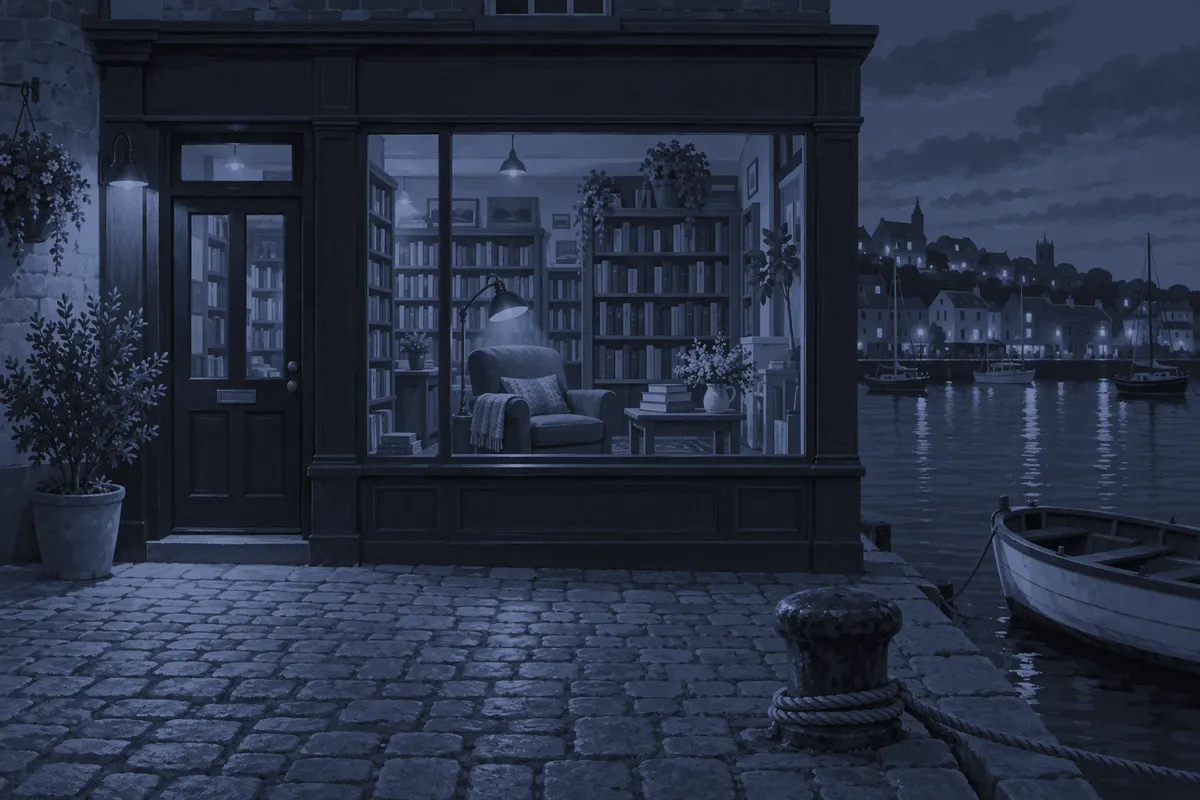
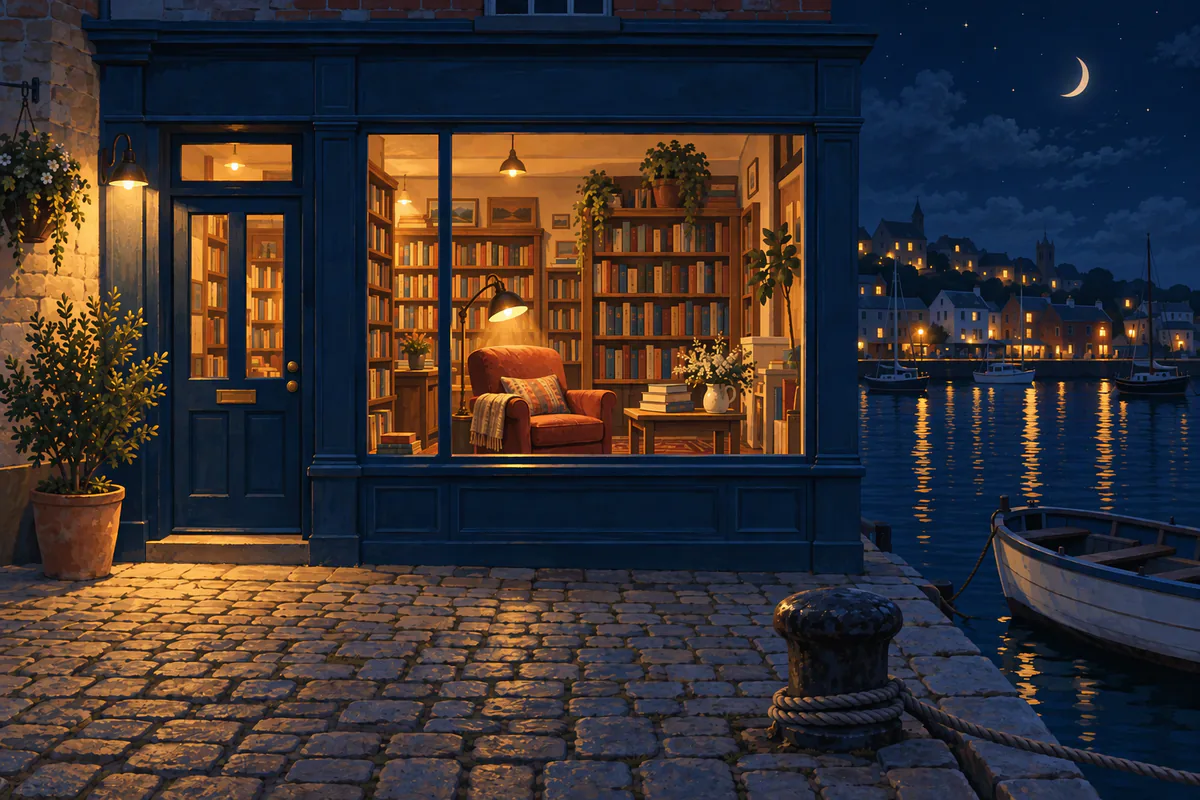
Q117 dark pictures are regenerated, never colour-corrected: Harbour shopfront night scene, AI dark-canvas seedling set, rules in image-prompting, images.md, guide, Rules agents miss and Pictures page

diff --git a/apps/library/src/data/pages.ts b/apps/library/src/data/pages.ts
@@ -1149,7 +1149,9 @@ applySettings({
           type: 'points',
           items: [
             'The look: in colour (the default), greyscale, duotone, or one look at rest and another while it’s pointed at or focused. One file does all of them.',
-            'The file: the picture as it is (the light file), and optionally the same picture drawn for a dark scheme and for more contrast. Each file is a separate picture you make.',
+            'The file: the picture as it is (the light file), and optionally the same picture made for a dark scheme and for more contrast. Each file is a separate picture you make.',
+            'A dark file is one of two kinds. Dark lighting: the same scene as it looks at night or in dim light, with the moon and stars instead of the sun, lit windows and lamps on. Dark canvas: the same drawing on a dark canvas, with the light still falling the same way, so shadows stay darker and highlights lighter.',
+            'Make a dark file with AI, from the light file, or use one you’re given. Never tint, filter, invert or colour-correct the light file: that turns day into blue day and swaps shadows for highlights.',
             'The look applies to whichever file is showing, so a dark file can be greyscale too.',
             'With more contrast, or with the system’s forced colours, every picture shows in full colour, whatever its look, so nothing is harder to make out.',
           ],
@@ -1174,8 +1176,8 @@ applySettings({
             { version: 'Greyscale', for: 'Quieting pictures so they sit with the page, or giving a set of different photos one look.', when: 'Always, except with more contrast.', code: 'treatment="greyscale"', json: '"treatment": "greyscale"' },
             { version: 'Duotone', for: 'Tying pictures to the brand: grey tinted with the accent colour.', when: 'Always, except with more contrast.', code: 'treatment="duotone"', json: '"treatment": "duotone"' },
             { version: 'Grey until pointed at', for: 'A grid of covers or people that stays calm and shows colour on the one you’re looking at.', when: 'Colour while the picture, or the link, button or card around it, is hovered or has focus.', code: 'treatment={{ rest: \'greyscale\', active: \'none\' }}', json: '"treatment": { "rest": "greyscale", "active": "none" }' },
-            { version: 'Dark file', for: 'A picture that would glare or disappear on a dark page: a night scene, a dimmed photo, an illustration redrawn for dark.', when: 'In a dark scheme: the page’s, a dark band’s own (data-scheme="dark"), or the system’s.', code: 'dark={night}', json: '"dark": "assets/name-dark.webp"' },
-            { version: 'More contrast files', for: 'A drawing whose lines or colours are too faint for people who asked for more contrast.', when: 'With more contrast: the page’s setting or the system’s. Dark with more contrast uses contrast.dark, then the dark file, then the light one.', code: 'contrast={{ light: …, dark: … }}', json: '"contrast": { "light": "assets/…", "dark": "assets/…" }' },
+            { version: 'Dark file', for: 'A picture that would glare or disappear on a dark page: the same scene at night, or the same drawing redrawn on a dark canvas.', when: 'In a dark scheme: the page’s, a dark band’s own (data-scheme="dark"), or the system’s.', code: 'dark={night}', json: '"dark": "assets/name-dark.webp"' },
+            { version: 'More contrast files', for: 'A drawing whose lines or colours are too faint for people who asked for more contrast: redrawn with stronger separation, never a filter.', when: 'With more contrast: the page’s setting or the system’s. Dark with more contrast uses contrast.dark, then the dark file, then the light one.', code: 'contrast={{ light: …, dark: … }}', json: '"contrast": { "light": "assets/…", "dark": "assets/…" }' },
             { version: 'Dark file in greyscale', for: 'A greyscale set that also has dark files: the look and the file combine.', when: 'In a dark scheme, in the look you set.', code: 'dark={night} treatment="greyscale"', json: '"dark": "assets/…", "treatment": "greyscale"' },
           ],
         },

diff --git a/packages/core/react/stories/Image.stories.tsx b/packages/core/react/stories/Image.stories.tsx
@@ -11,9 +11,9 @@ import { scenes } from './scenes';
 import type { StoryFile } from './story';
 import lighthouseDay from './media/scenes/lighthouse-day.webp?url';
 import lighthouseNight from './media/scenes/lighthouse-night.webp?url';
-import seedlingLight from './media/spot/seedling-light.svg?url';
-import seedlingDark from './media/spot/seedling-dark.svg?url';
-import seedlingDarkMore from './media/spot/seedling-dark-more.svg?url';
+import seedlingLight from './media/spot/seedling-light.webp?url';
+import seedlingDark from './media/spot/seedling-dark.webp?url';
+import seedlingDarkMore from './media/spot/seedling-dark-more.webp?url';
 
 const lighthouseAlt = 'A striped lighthouse on a green headland above the sea.';
 /** MP11: two reveals drawn with the one hook. A wipe from the start edge… */
@@ -170,7 +170,7 @@ export default {
     {
       title: 'Light and dark pictures',
       description:
-        'dark names the same picture for a dark scheme, and contrast its files for more contrast (MP17); src stays the light file. Each frame follows the scheme it is drawn in: the page’s, or a band’s own. A photo and an SVG alike, at one ratio under one alt. Only the file in use is fetched; a later switch keeps the old file until the new one has loaded, so nothing flashes or moves. Dark and more contrast falls back to contrast.dark, then dark, then src.',
+        'dark names the same picture for a dark scheme, and contrast its files for more contrast (MP17); src stays the light file. Each frame follows the scheme it is drawn in: the page’s, or a band’s own. A photo and an illustration alike, at one ratio under one alt; each dark file is the scene at night or the drawing redrawn on a dark canvas, never a tinted or inverted copy (Q117). Only the file in use is fetched; a later switch keeps the old file until the new one has loaded, so nothing flashes or moves. Dark and more contrast falls back to contrast.dark, then dark, then src.',
       code: `<Image src={day} dark={night} alt="A lighthouse on a green headland above the sea." />
 <Image src={seedling} dark={seedlingDark} contrast={{ dark: seedlingDarkMore }} ratio="classic" fit="contain" alt="A seedling in a pot." />`,
       render: () => (
@@ -191,7 +191,7 @@ export default {
             },
             {
               id: 'svg',
-              label: 'An SVG: light, dark and dark with more contrast',
+              label: 'An illustration: light canvas, dark canvas and dark with more contrast',
               cells: Object.fromEntries(
                 ['light', 'dark', 'light-more', 'dark-more'].map((c) => [c, <Image src={seedlingLight} dark={seedlingDark} contrast={{ dark: seedlingDarkMore }} ratio="classic" fit="contain" alt="A seedling with two leaves in a clay pot." />]),
               ),
@@ -223,7 +223,7 @@ export default {
       code: `"shopfront": {
   "src": "assets/shopfront.webp",
   "dark": "assets/shopfront-dark.webp",
-  "alt": "The shop’s lit window on a cobbled quay at dusk: …"
+  "alt": "The shop’s lit window on a cobbled quay in the evening: …"
 }`,
       render: () => <ScreenPreview src="site.html?demo=site#/" title="Harbour Books, whose opening picture has a dark file" caption="Harbour’s home: the opening picture follows the preview’s light or dark." />,
     },

diff --git a/packages/core/react/stories/Pictures.stories.tsx b/packages/core/react/stories/Pictures.stories.tsx
@@ -6,9 +6,9 @@ import { Section } from '../compounds/Section';
 import type { StoryFile } from './story';
 import lighthouseDay from './media/scenes/lighthouse-day.webp?url';
 import lighthouseNight from './media/scenes/lighthouse-night.webp?url';
-import seedlingLight from './media/spot/seedling-light.svg?url';
-import seedlingDark from './media/spot/seedling-dark.svg?url';
-import seedlingDarkMore from './media/spot/seedling-dark-more.svg?url';
+import seedlingLight from './media/spot/seedling-light.webp?url';
+import seedlingDark from './media/spot/seedling-dark.webp?url';
+import seedlingDarkMore from './media/spot/seedling-dark-more.webp?url';
 
 const alt = 'A striped lighthouse on a green headland above the sea.';
 const seedlingAlt = 'A seedling with two leaves in a clay pot.';
@@ -51,7 +51,7 @@ export default {
     {
       title: 'A file for each scheme',
       description:
-        'The same picture drawn for light, dark and more contrast, at one shape under one description. Each frame shows the file for the scheme it sits in. A scheme with no file of its own falls back: dark with more contrast to the dark file, then the light one; light with more contrast to the light one.',
+        'The same picture drawn for light, dark and more contrast, at one shape under one description. A dark file is never a tinted, filtered or inverted copy: it is the scene as it looks at night (the lighthouse) or the drawing redrawn on a dark canvas with the same light (the seedling), made with AI or supplied by you. Each frame shows the file for the scheme it sits in. A scheme with no file of its own falls back: dark with more contrast to the dark file, then the light one; light with more contrast to the light one.',
       code: `<Image src={day} dark={night} alt="…" />
 <Image src={seedling} dark={seedlingDark} contrast={{ dark: seedlingDarkMore }} alt="…" />`,
       render: () => (
@@ -63,7 +63,7 @@ export default {
             { id: 'photo', label: 'A photo: light and dark', cells: cells(() => <Image src={lighthouseDay} dark={lighthouseNight} alt={alt} />) },
             {
               id: 'svg',
-              label: 'An SVG: light, dark, dark with more contrast',
+              label: 'An illustration: light canvas, dark canvas, dark with more contrast',
               cells: cells(() => <Image src={seedlingLight} dark={seedlingDark} contrast={{ dark: seedlingDarkMore }} ratio="classic" fit="contain" alt={seedlingAlt} />),
             },
           ]}

diff --git a/docs/definition-of-done.md b/docs/definition-of-done.md
@@ -68,6 +68,8 @@
 | Q58 | 11-08 10:55 | "We want some image generation generating state. - I've used a specific generating image state in this project, use that and have a few more variants. - https://github.com/prabinpebam/watai.git" | Read the generating-image state in the owner's watai repository (source read-only, not added to this workspace) and rebuild it here on this library's tokens as an image-generation loading state, plus a few more variants (for example progressive blur/reveal, shimmer, noise, progress), usable inside a chat message (Q57) and standalone; reduced motion respected; announced status | Image generation state page/story | F15.68a | **Done for review** (about 12:55, design): [ImageGeneration](http://127.0.0.1:8766/#/imagegeneration), rebuilt from watai's stipple generating state (read-only via `gh api`) on this library's tokens, with `aurora`, `reveal` (sharpening partial preview with a share) and `shimmer` variants, a failed state with Try again; standalone and inside ChatMessage; reduced motion holds it still; start, done and failure announced |
 | Q59 | 11-08 12:03 | "Dropdown, padding is bad, chevron alomost touching the right edge. Dropdown list should be custom, else it clashes in style." (screenshot: Field page, "Label beside the control", Time zone shows a native `<select>` with the browser's own list) | **Q59.1** No native `<select>` anywhere in the library app or core: every dropdown (including Field's "Label beside the control" Time zone and any other story or view) uses the custom Select whose list is built from ListItem (Q19); a check (static scan) finds zero `<select>` elements in core components and views. **Q59.2** The Select trigger's chevron sits inside the same end inset as the text start inset (token-driven, never touching the edge), in every size | [Field](http://127.0.0.1:8766/#/field) "Label beside the control"; [Select](http://127.0.0.1:8766/#/select) | F15.64a | **Done for review** (about 12:20, design): native selects 1 before, 0 after (scan of core and the library app); the Field story uses Select (new `orientation` prop); `check:views` fails on any native select; Select chevron end inset = start inset in every size (9/13/17 px, `c.field.padding-inline-*`), measured |
 | Q60 | 11-08 12:57 | "Therre should be gap between items else the active and hover touch" (screenshot: ConversationList "Grouped by when", the open row's tint and the hovered row's fill touch with no space between) | **Q60.1** ConversationList rows sit apart by the same token gap as the navigation list (Q13, about 4 px), so active, hover and focus fills never touch. **Q60.2** The rule is owned once, by the shared list/ListItem layout, and applies to every list of selectable rows with fills (ConversationList, Navigation, Select/Menu lists, ListDetail, sidebar in ChatLayout and the chat app view); scan them and fix any that touch | [ConversationList](http://127.0.0.1:8766/#/conversationlist), [ChatLayout](http://127.0.0.1:8766/#/chatlayout) | F15.69a | **Done for review** (about 13:03, design): ConversationList rows now sit `space.stack-row` apart (4 px, was 0); the one role every list of filled rows reads (Navigation, Select and menu popups, List select/action/grid rows, ListDetail, ConversationList; List's option gap moved from `stack-pair` to it). Measured 4 px between consecutive rows in each, including the ChatLayout sidebar and open Select and menu lists |
+| Q117 | 11-10 14:19 | "This is a wrong implementation of dark mode of image. You never do color correction to get dark mode for images. You should use AI generated image specifically for dark mode or the image that users might provide. Dark mode images are of 2 type - When applicable, you can assume it's night time or the lighting is dark and then generate the image as how it would appear naturally when it's dark. This means what would naturally happen during night or dark lighting should happen in the image. If it's a landscpae, there would be moon and stars instead of sun in the sky and houses will have lights from inside during night while that won't be the case for daytime - Dark mode sometime is not about lighting. It's simply about using a black canvas to represent the illustration. This is not achieved merely by inverting an image on a light canvas as that inverses the shadow and highlights and gives an incorrect representation of the image. So this is achieved by regenerating with AI. Fix this issue and lay down these in the Agentic craft skills." (screenshot: Harbour home hero in dark, a blue-tinted colour-corrected copy of the day photo) | **Q117.1** No dark (or more-contrast) picture anywhere in the library, templates, examples or tools is made by colour correction, tinting, filters, inversion or any pixel transform of the light file; every such derived file is replaced by an AI-regenerated dark version (or removed until one exists, falling back to the light file), and any tool or code path that derives dark pictures this way is removed. **Q117.2** Two kinds of dark picture, chosen per picture: (a) *dark lighting*: the same scene as it would naturally look at night or in dark lighting (moon and stars instead of sun, lit windows, lamps on, natural night shadows and colour), regenerated with AI; (b) *dark canvas*: the same illustration drawn on a black/dark canvas with correct light direction, shadows and highlights (never an inversion), regenerated with AI. A user-provided dark file is always accepted as is. **Q117.3** The Harbour home hero shows a natural night scene in dark. **Q117.4** The rules are laid down in the Agentic craft skills (the `image-prompting` skill and the agentic-craft source it comes from), the Pictures page (Q115), `docs/images.md` and the consumer guide; checks/docs no longer describe or permit derived dark files | [Harbour](http://127.0.0.1:8766/#/harbour) in dark, [Pictures](http://127.0.0.1:8766/#/pictures), image-prompting skill | F15.Q117 | Built 11-10 14:45 by worker 69, design mode, not owner-approved: **Q117.1** inventory: the only pixel-transformed dark file was Harbour `shopfront-dark.webp` (blue-tinted copy, no provenance), now regenerated with AI; the library's seedling SVG trio (a recoloured palette) replaced by AI-drawn `seedling-light/dark/dark-more.webp` (dark canvas; the more-contrast file regenerated too, not dropped, because the Pictures story demonstrates it); `lighthouse-night.webp` kept (a separately drawn night scene: moon, stars, lit lamp; not a transform); `nightRidge` is its own scene, not a dark version; no tool or code path derived dark pictures (grep of tools, assets-src, packages, apps for modulate/negate/tint/invert). **Q117.2** provenance `kind` in `assets-src/harbour/shopfront-dark.json` and `assets-src/library/spot/seedling-*.json`. **Q117.3** Harbour site in dark serves the night file (moon, stars, lamps, lit windows), seen in an isolated browser page; the shared alt now says "in the evening". **Q117.4** rules in `.github/skills/image-prompting/SKILL.md` (new section + checklist), the local `agentic-craft/skills/design-system/references/tokens.md` (generic rule; not pushed) and its installed copy, `docs/images.md`, guide 6, `UPGRADE.md`, Rules agents miss row, Pictures page (points, table, story text), CHANGELOG Unreleased; `npm run check` passes |
+| Q116 | 11-10 14:09 | "Let's move over to a new main triage chat, this one seems getting heavier." | **Q116.1** A new main triage session replaces main session f4d55d2c, carrying over only the needed context (role rules, state, open questions); the old session's workers are archived (idle, all work committed and pushed). The new main marks role main and mode design and replies ready; the build queue stays paused until the owner says go (Q54) | Main session | — | Recorded by main 14:09; new main session created, old workers 67 and 68 archived |
 | Q115 | 11-10 11:59 | "Since we are supporting color, B&W and dark and light mode version of the same image, have that documented and articulated properly in the Design library somewhere." | **Q115.1** One place in the Design Library app (a "Pictures" page or a clearly named section on Image) that explains, with live examples built from the real components, every version of one picture the library supports: colour or B&W (the `treatment`/tone `greyscale`, `duotone`, including rest/active such as greyscale until hovered) × the scheme files (light, dark, more contrast; MP17/MP18), and how they combine (e.g. a dark file shown in greyscale). **Q115.2** For each: what it's for, when it switches (scheme, region band, hover/focus), how to set it in code (Image props) and in JSON (assets.json picture entry), and what the checks enforce (same shape, SVG safety). **Q115.3** Plain wording per ui-copy; the consumer guide points to it. Documentation only: no new behaviour | Library app page, Image stories, guide pointer | F15.MP | Recorded by main 11:59; handed to worker 66 (library page) with a guide pointer by worker 65 after the 0.4.0-beta.2 release |
 | Q114 | 11-10 11:51 | "How are we doing on the updating the design system. I'm waiting to migrate DesignUp site to the latest version. Be optimal about the time and effor and make progress fast." | **Q114.1** Ship 0.4.0-beta.2 (the DesignUp migration release) as fast as possible: finish MP27 (lean components entry) only if it lands quickly; worker 65 prepares the release in parallel (version, changelog, pack, install matrix, upgrade proof on temp DesignUp copies) rather than waiting. **Q114.2** Keep the Q105 release steps but scope effort: no repeat sweeps, probes only where something changed, one proof run at the release commit. If MP27 is not committed within about 30 active minutes, release without it and ship MP27 next (0.4.0-beta.3). **Q114.3** After the release, main gives the owner the release, brief and paste-in line for the DesignUp migration | 0.4.0-beta.2 release, adoption brief | F15.MP | Recorded by main 11:51; steered to workers 65 (release prep now) and 66 (MP27 time-box). **Done** (worker 65, about 12:20): [v0.4.0-beta.2](https://github.com/prabinpebam/design-library/releases/tag/v0.4.0-beta.2) with MP27, tagged at a65bb7c; [brief](https://prabinpebam.github.io/design-library/docs/#adopt-0.4.0-beta.2.md); paste-in line sent to main; proof at the release commit only (Q114.2): 0.2.0-beta.1 and 0.4.0-beta.1 DesignUp copies → 226/226 routes identical in light, dark and 320 px, 0 console errors; npm 10 and 11 pass |
 | Q113 | 11-10 09:02 | "One more thing, a brand might want to use their own icons. This should be possible. Also the brand might have just a few icons and want to use thos custom icons in the components and layouts wherever icons are used. This should also be made possible. Show this as a demo in the library." | **Q113.1** A brand can supply its own icon set through the one Icon fundamental's public seam (icon data registered by name, SVG with currentColor/token colours, licence recorded), never by forking components. **Q113.2** A partial set: the brand supplies only a few icons; those override the same names everywhere icons are used (every component and layout that draws an icon: buttons, fields, menus, notifications, navigation, chevrons, close, etc.), and every icon it doesn't supply falls back to the active set; works per subtree (a provider) and site-wide; missing or misnamed icons reported in development. **Q113.3** A library demo the owner can open: a page showing a few brand icons overriding the defaults across real components and a layout, with a switch between the default set and the brand set, light and dark. Planned into improvement-plan Part 4 (packet, release, DoD row) and built with the Q112 packets; generic and opt-in (Q105) | Icon fundamental and icon registry, components that draw icons, library demo page, guide | F15.IMP | Recorded by main 09:02; handed to workers 64 (plan, docs) and 63 (build, demo). **Planned for review** (worker 64, F15.IMP5, 2026-11-10 about 09:20): [Part 4, Added for Q113](improvement-plan.md#added-for-q113-brand-icons): checked against Q36/F17 (seven curated sets behind one global `setIconSet`, no registration, no partial or subtree overrides; `Rating` draws its star outside `Icon`); packets MP24 (seam), MP25 (demo page), MP26 (command, check, docs) in 0.4.0-beta.2; IA25; decisions ID45–ID49; DoD U17, BM.12–BM.14. Sent to worker 63 |

diff --git a/packages/core/AGENTS.md b/packages/core/AGENTS.md
@@ -75,7 +75,7 @@ These rules are easy to miss: each one is written down, but nothing at the momen
 | A custom part reaches its own children by child paths | `> [data-dl-part='…']` | A descendant selector into another component's parts | `check:parts` |
 | Every change, wait, failure and empty place shows itself at the smallest scope: a saving control stays focused and locked, a failed form marks its fields and keeps the answers, every error has a way on, an empty list says why in the list's own place | The controls' own `pending`/`busy` states; Skeleton inside an `aria-busy` region; Alert with `actions`, field `error`; EmptyState in the content's wrapper; `notify` (errors stay until closed); a form block's `answer`/`invalid` for its failed state | `disabled` while saving, a spinner for the whole page, an error with no action, a pill for a field's error, a blank container | [`probes/ui-states-probe.js`](probes/ui-states-probe.js) (US1–US6; [UI states](https://github.com/prabinpebam/design-library/blob/main/docs/ui-states.md)), with each screen state shown |
 | Every picture and graphic has its words: alternatives say what it shows, icon-only controls have a name, parts of a whole are named beside their colours | Image `alt` (empty when decorative), Button `iconOnly` + `label`, StackedBar's legend | An alt that names the medium or a file, an unnamed icon button, colour as the only cue | [`probes/visual-probe.js`](probes/visual-probe.js) (VR1–VR7; [Visual representation](https://github.com/prabinpebam/design-library/blob/main/docs/visual-representation.md)) |
-| A picture that differs by scheme is one picture with a file per scheme: same shape, one alt, swapped by the library for the scheme of its own place on the page | `Image` `dark` and `contrast` (also `Hero` `picture`, `EmptyState` `illustration`, and a picture entry's `dark` and `contrast` in `assets.json`); `useRegionScheme` for a part that draws its own art; every version side by side on the library's [Pictures](https://prabinpebam.github.io/design-library/#/pictures) page | Two `Image`s shown and hidden with CSS per scheme, `<picture>` with `prefers-color-scheme` (misses the scheme control and dark bands), a `filter: invert()` or darkened photo, a different alt per scheme | `check:content` (each file exists and has its picture's shape), `check:svg` |
+| A picture that differs by scheme is one picture with a file per scheme: same shape, one alt, swapped by the library for the scheme of its own place on the page; the dark file is the same scene at night (moon, lit windows, lamps) or the same drawing redrawn on a dark canvas, supplied or regenerated with an image model, never derived from the light file | `Image` `dark` and `contrast` (also `Hero` `picture`, `EmptyState` `illustration`, and a picture entry's `dark` and `contrast` in `assets.json`); `useRegionScheme` for a part that draws its own art; every version side by side on the library's [Pictures](https://prabinpebam.github.io/design-library/#/pictures) page | Two `Image`s shown and hidden with CSS per scheme, `<picture>` with `prefers-color-scheme` (misses the scheme control and dark bands), a dark or more-contrast file made by colour correction, tinting, a filter, `invert()` or any pixel transform of the light file (a blue day; swapped shadows and highlights), a different alt per scheme | `check:content` (each file exists and has its picture's shape), `check:svg`; the dark file's look by eye |
 | Shapes on a picture and a picture's change on hover belong to the picture, so they keep its box, its alt, its triggers and reduced motion (0.5.0-beta.1) | `Image` `decoration` and `under`, `alternate`, `reveal(frame)` (also `Hero` `picture`, the `hero.decoration` and `image.decoration` data slots, a picture entry's `alternate`); `Hero` `reserve` for openings that keep one height ([recipe step 1](guide/recipe-brand-led-site.md#1-find-the-core-part-first)) | An absolutely positioned `<svg>` or second `<img>` beside the picture, a hover handler and a timer of your own, a canvas that runs at rest or under reduced motion, a fixed `min-height` on an opening | [`probes/motion-probe.js`](probes/motion-probe.js), [`probes/visual-probe.js`](probes/visual-probe.js) (VR1) |
 | Drawn art follows the theme, fits its own space and moves only through the library's motion parts (0.5.0-beta.1) | `Illustration` (role classes `ink`, `muted`, `fill`, `surface`, `accent`; `data-size` groups; `data-motion` parts with `play`; `label` or `decorative`); from data an `assets.json` entry's `illustration` and the `illustration` block ([guide 6](guide/6-templates.md#illustrations)) | An `<svg>` pasted into a view, literal colours or a second file per scheme for art that could use roles, `@keyframes`, `<animate>` or a script in the file, a loop without Pause, an `Image` of an SVG that should follow the theme | `check:svg`, `check:content`, [`probes/motion-probe.js`](probes/motion-probe.js) with reduce on and off |
 | A brand's own icons replace the library's by name, so one glyph changes that icon in every component and layout that draws it | `npx design-library-icons <folder>` → `registerIconSet` (a whole set) or `setIconOverrides` / `<IconOverrides icons>` (a few names), from `@design-library/core/icons` and `@design-library/core/components` ([guide 3](guide/3-tokens.md#your-own-icons)) | An `<svg>` drawn in a component or view, a forked Button or Rating to change its icon, an icon name the library doesn't have (a logo mark is an `Image`) | `design-library-check` (`icon-name`), development warnings for unknown names and missing `viewBox` |

diff --git a/.github/skills/image-prompting/SKILL.md b/.github/skills/image-prompting/SKILL.md
@@ -1,6 +1,6 @@
 ---
 name: image-prompting
-description: Use whenever a picture is needed in the Design library or a template (a hero, card picture, spot illustration, empty-state art, avatar, sponsor or product shot), or when generating, regenerating, trimming, optimizing, storing or captioning one. Generates with the global GPT Image 2.5 skill (gpt-image-2-5), prompts by OpenAI's documented structure, keeps a set consistent with one style reference image, uses true alpha and trims transparent margins with tools/trim-alpha.mjs, generates at the resolution intended for display, ships optimized WebP through the template's assets.json, and writes alt text that matches the picture.
+description: Use whenever a picture is needed in the Design library or a template (a hero, card picture, spot illustration, empty-state art, avatar, sponsor or product shot), or when generating, regenerating, trimming, optimizing, storing or captioning one, including a dark or more-contrast version. Generates with the global GPT Image 2.5 skill (gpt-image-2-5), prompts by OpenAI's documented structure, keeps a set consistent with one style reference image, makes dark versions only by AI regeneration (the scene at night, or the drawing on a dark canvas) or the owner's file, never by colour correction or inversion, uses true alpha and trims transparent margins with tools/trim-alpha.mjs, generates at the resolution intended for display, ships optimized WebP through the template's assets.json, and writes alt text that matches the picture.
 ---
 
 # Image prompting: pictures that belong in the layout
@@ -74,6 +74,15 @@ Consistency still drifts ([Image generation: Limitations](https://developers.ope
 - **Trim every transparent picture.** The model pads the subject with empty space, which turns into unwanted padding in the layout and breaks alignment with the text beside it. `trim-alpha.mjs` crops to the bounding box of pixels with alpha > 8 (`--threshold`), then resizes. Space around the picture comes from the layout's gap tokens (`spacing`), never from transparent pixels; `--pad` exists only for a soft edge (a glow) that must not touch the box.
 - Opaque pictures (scenes, photographs) are never trimmed; frame them by composition, and `--fit cover` when the slot's ratio differs.
 
+## Dark and more-contrast versions (Q117)
+
+A picture that reads wrong on a dark page gets a dark file of the **same picture**. It is never made from the light file by colour correction, tinting, a filter, an inversion or any other pixel transform (`sharp().modulate()`, `.tint()`, `.negate()`, CSS `filter`, an image editor's curves): a darkened photo reads as a blue-tinted day, and an inverted drawing swaps its shadows and highlights. A dark file the owner supplies is used as is; otherwise it is regenerated with the generator, as an `edit` with the **light file** as Image 1 (here Image 1 is the composition, not just the style), in one of two kinds chosen per picture:
+
+- **Dark lighting** (scenes, photographs, painted scenes): the same scene as it would naturally look at night or in dim light. Prompt: *"Image 1 is the same picture in the day version: keep its exact composition, camera position, framing, every object and its place, the style and the level of detail. Change only the time of day."* then the night details: moon and stars instead of the sun, no sunset glow, lit windows and lamps as the light sources with warm pools and reflections, the rest in natural moonlit shadow, and *"Not a colour-tinted copy: real night lighting."*
+- **Dark canvas** (illustrations and spot art on a light canvas): the same drawing redrawn on a black or dark canvas. Prompt: *"keep its exact composition … Redraw it on a dark canvas; do not invert or tint it."* plus the same light direction, so highlights stay on the lit side and the cast shadow is darker than the canvas, colours slightly deeper so they don't glare, an optional faint rim light to separate shapes from the canvas.
+
+Same generation size and crop as the light file (`check:content` fails another shape), shipped with the same `trim-alpha.mjs` line, named `{name}-dark.webp` in the entry's `dark`, with its own provenance file whose `kind` says which of the two it is. One alt fits both files ("in the evening", not "at dusk"). A **more-contrast** file follows the same rule (regenerated with stronger separation, never a filter); without one, more contrast falls back to the scheme's file. Look at the dark file beside the light one before keeping it: the same objects in the same places, lit by the night or redrawn on the dark canvas.
+
 ## Resolution: generate for the display size
 
 Pictures in one view share a **visual resolution**: the same number of image pixels per CSS pixel, and the same apparent size of strokes and textures. A picture generated large and shrunk a lot looks finer than one generated small and shown big.
@@ -123,6 +132,7 @@ The visual-representation audit (G1) found placeholder landscapes with informati
 - [ ] Transparent: alpha real, margins trimmed. Opaque: framed by composition.
 - [ ] File = display × 2, WebP, within the proposed budget.
 - [ ] Alt written from the finished picture (or `""` when decorative), in `assets.json`.
+- [ ] A dark or more-contrast file is supplied or regenerated (dark lighting or dark canvas), never a pixel transform of the light file.
 - [ ] Provenance JSON in `assets-src/<set>/`.
 - [ ] `npm run check:content` and the build pass.
 

diff --git a/packages/core/guide/6-templates.md b/packages/core/guide/6-templates.md
@@ -54,10 +54,10 @@ Every picture a template shows is a file in its `assets/` folder and an entry in
 1. **Size it for where it shows:** twice the largest width it is drawn at (a split hero or card picture about 1200 × 800, a wide hero 2304 × 1296, a square 960 × 960, a portrait 192 × 192). The component reserves its box from the ratio, so the page never jumps while it loads.
 2. **Ship WebP** (about quality 82); SVG for drawn marks. File names are lower-case kebab case (`assets/the-long-shore.webp`), the only form `assets.schema.json` accepts.
 3. **Trim transparent pictures** to their visible edge: space around a picture comes from the layout, never from empty pixels.
-4. **Write the alt from the finished picture:** what it shows or means in this place, in a sentence (`"The shop's lit window on a cobbled quay at dusk…"`), never the medium or the file ("image of", "hero.webp"). Use `""` only when the picture is decoration and the words beside it say everything.
+4. **Write the alt from the finished picture:** what it shows or means in this place, in a sentence (`"The shop's lit window on a cobbled quay in the evening…"`), never the medium or the file ("image of", "hero.webp"). Use `""` only when the picture is decoration and the words beside it say everything.
 5. **Describe how it's drawn in its entry** (all optional): `ratio` (`wide`, `photo`, `square`, `portrait`… as `Image`) for blocks that don't fix a frame; `focal` (`{ "x": 0.3, "y": 0.6 }`, 0 to 1) the point that stays in view when the frame crops; `treatment` (`none`, `greyscale`, `duotone`, or `{ "rest": "greyscale", "active": "none" }` for a picture that colours in on hover or focus); `decorative: true` for a picture the words beside it already say, which then needs no `alt`; `alternate` (`"assets/{name}-after.webp"`, 0.5.0-beta.1) for a second picture shown while the card or link around it is hovered or focused (say both pictures in `alt`). Every other picture needs `alt`.
 6. **Keep a set consistent:** one style across a template's pictures (the same light, palette and finish); example pictures in the shipped templates are stand-ins a real site replaces with its own.
-7. **Pictures in every scheme (0.4.0-beta.2):** a picture drawn for a light page that looks wrong on a dark one (a daylight scene, a screenshot, a diagram on white) gets a second file of the same picture: `"dark": "assets/{name}-dark.webp"` in its entry, and `"contrast": { "light": …, "dark": … }` only where more contrast needs its own (otherwise more contrast uses the scheme's file). Both files have the same shape and share the entry's one `alt`: they're the same picture, never a different one. Never darken a photo with a filter or invert it. The file shown follows the scheme of the picture's own place on the page (the page's, the system's, or a band with its own `data-scheme`), switches without a flash or a jump, and only the file in use is downloaded. In code, the same on `Image` (`dark`, `contrast`), `Hero` `picture` and `EmptyState` `illustration`; a drawing that should simply follow the theme's colours is better as one SVG on colour roles than as two files.
+7. **Pictures in every scheme (0.4.0-beta.2):** a picture drawn for a light page that looks wrong on a dark one (a daylight scene, a screenshot, a diagram on white) gets a second file of the same picture: `"dark": "assets/{name}-dark.webp"` in its entry, and `"contrast": { "light": …, "dark": … }` only where more contrast needs its own (otherwise more contrast uses the scheme's file). Both files have the same shape and share the entry's one `alt`: they're the same picture, never a different one. The dark file is one of two kinds, chosen per picture: **dark lighting**, the same scene as it naturally looks at night or in dim light (moon and stars instead of the sun, lit windows, lamps on), or **dark canvas**, the same drawing redrawn on a dark canvas with the light falling the same way (shadows stay darker, highlights lighter). Use one you're given as is, or regenerate it with an image model from the light file; never make it by colour correction, tinting, a filter, an inversion or any other pixel transform of the light file (a darkened photo is a blue day; an inverted drawing swaps its shadows and highlights). The same goes for more-contrast files. The file shown follows the scheme of the picture's own place on the page (the page's, the system's, or a band with its own `data-scheme`), switches without a flash or a jump, and only the file in use is downloaded. In code, the same on `Image` (`dark`, `contrast`), `Hero` `picture` and `EmptyState` `illustration`; a drawing that should simply follow the theme's colours is better as one SVG on colour roles than as two files.
 8. **Check:** `npx design-library-check-content --templates src/templates` (every id exists, every file is in `assets/`, every entry has `alt` unless it's decorative, every `dark`, `contrast` and `alternate` file exists and has its picture's shape, every SVG is safe); `npx design-library-check-svg` for SVGs outside a template; the visual probe's VR1, VR2 and VR6 rows in [step 8](8-review.md). How the library's own pictures were made: [Images](https://prabinpebam.github.io/design-library/docs/#images.md).
 
 ## Illustrations

diff --git a/docs/images.md b/docs/images.md
@@ -18,7 +18,7 @@ The project skill `.github/skills/image-prompting/SKILL.md` holds the researched
 - **Files:** WebP (quality 82), in `packages/templates/<template>/assets/`; provenance (prompt, model, size, reference, date, alt) in `assets-src/<set>/`; raw PNGs in the ignored `.design-library/image-raw/`.
 - **Alt:** written from the finished picture; empty where the render already treats the picture as decorative (post lists) or the title says it all.
 - **Stand-ins:** these are example pictures for example content (IM3): the fictional firms, venues and people are made up, so a generated picture is a placeholder a real site replaces with its own photographs (IM2). Provenance files make that explicit.
-- **Per scheme (Q112, MP17–MP19):** a picture that reads wrong on a dark page gets a dark file of the **same picture**: generated as an edit of the light file (Image 1) with only the light changed ("the same scene at night", "the same diagram on a dark ground"), at the same size and crop, so both share one ratio, one focal point and one alt. More-contrast files only where the scheme's file fails contrast. Never a filter, an inverted photo or a different subject. Stored as `assets/{name}-dark.webp` beside the light file, named in the entry's `dark`; `check:content` fails a file of another shape. A drawing that should follow the theme's colours is one SVG on colour roles (`Illustration`, 0.5.0-beta.1), not two files.
+- **Per scheme (Q112, MP17–MP19; Q117):** a picture that reads wrong on a dark page gets a dark file of the **same picture**, either supplied by the owner (used as is) or regenerated with AI as an edit of the light file (Image 1), in one of two kinds: **dark lighting**, the same scene as it naturally looks at night or in dim light (moon and stars instead of the sun, lit windows, lamps on, night shadows and colour), or **dark canvas**, the same drawing redrawn on a black or dark canvas with the same light direction, so shadows stay darker than the canvas and highlights lighter. Same size and crop, so both share one ratio, one focal point and one alt (an alt that fits both: "in the evening", not "at dusk"). More-contrast files only where the scheme's file fails contrast, regenerated the same way. **Never** colour correction, tinting, a filter, an inversion or any pixel transform of the light file: that gives a blue-tinted day, or swaps shadows and highlights. Stored as `assets/{name}-dark.webp` beside the light file, named in the entry's `dark`, with its own provenance file (`kind`: dark lighting or dark canvas); `check:content` fails a file of another shape. A drawing that should follow the theme's colours is one SVG on colour roles (`Illustration`, 0.5.0-beta.1), not two files.
 - **Illustrations (Q112, MP20–MP23):** the picture generator makes raster pictures only, so an illustration is drawn as an SVG (by hand or in a vector tool), never traced from a generated picture. Colours only through the role classes `ink`, `muted`, `fill`, `surface`, `accent`; versions per width in `data-size` groups; motion only through `data-motion` parts, with a complete resting frame. `npm run check:svg` checks every file; the rules are in [guide 6, Illustrations](https://github.com/prabinpebam/design-library/blob/main/packages/core/guide/6-templates.md#illustrations).
 
 ## Slot classes

diff --git a/packages/core/CHANGELOG.md b/packages/core/CHANGELOG.md
@@ -8,6 +8,8 @@ Every release of `@design-library/core` and `@design-library/templates` (they sh
 
 ## Unreleased
 
+- **Changed (Q117; templates):** dark pictures are never made by colour correction, tinting, a filter or an inversion of the light file. Harbour's `shopfront-dark.webp` (a blue-tinted copy of the dusk picture) is replaced by the same scene regenerated at night (moon and stars, lamps and windows lit), and its shared alt says "in the evening" so it fits both files. A dark file is either supplied or regenerated with an image model, as **dark lighting** (the scene at night) or **dark canvas** (the drawing redrawn on a dark canvas); the guide, Rules agents miss and the Pictures page say so. The library's seedling story art (a recoloured SVG trio) is now an AI-drawn light-canvas, dark-canvas and more-contrast WebP set.
+
 ## 0.5.0-beta.1 (2026-11-10): brand pictures and openings
 
 The pieces a brand-led site draws by hand around its pictures and openings, now in the library: an opening that keeps one height across a series, section titles at the opening's size, brand shapes over and under a picture, a second picture on hover or focus with the site's own reveal (the library keeps the triggers, the timing and reduced motion), the library's stipple as a public helper, glides timed by their distance, and `Illustration` for drawn art that follows the scheme, fits its space and moves only on the motion tokens. Every change is an addition: with nothing set, every opening, picture, title and glide is as before. A site on 0.2.0-beta.1 or later installs it with no edits. Upgrading: `UPGRADE.md`, section → 0.5.0-beta.1.

diff --git a/.github/skills/design-system/references/tokens.md b/.github/skills/design-system/references/tokens.md
@@ -58,6 +58,7 @@ design/responsive.(ts|js)  generated helpers for scripts (breakpoints, sizes)
 - The resolver applies the base set, then the theme context, then modifiers. The build emits each colour role that differs between light and dark as `light-dark(<light>, <dark>)`, and modifier overrides inside their media query (`@media (prefers-contrast: more)`).
 - The page follows the system's scheme unless the person chooses one (stored, applied before first paint by a tiny inline script that sets `color-scheme` on the root).
 - A subtree switches with `color-scheme` (`data-scheme="dark"`). Nothing else branches on the theme. The one exception worth allowing: a picture with a dark version (an image can't take a colour role), drawn as `<picture>` with a dark `<source>`.
+- A picture's dark version is never made from the light file by colour correction, tinting, a filter, an inversion or any other pixel transform: a darkened photo reads as a blue-tinted day, and an inverted drawing swaps its shadows and highlights. It is either supplied by the owner (used as is) or regenerated with an image model from the light file, in one of two kinds chosen per picture. **Dark lighting:** the same scene as it would naturally look at night or in dim light (moon and stars instead of the sun, lit windows and lamps, night shadows and colour). **Dark canvas:** the same illustration redrawn on a black or dark canvas with the light falling the same way, so shadows stay darker than the canvas and highlights lighter. Same composition, size and crop, and one alt that fits both. A more-contrast version follows the same rule.
 
 ## Fluid values
 

diff --git a/packages/core/UPGRADE.md b/packages/core/UPGRADE.md
@@ -213,7 +213,7 @@ replaces; stop after any of them.
    does it). If you used a year in the query as a stopgap, drop it.
 5. Site from data: on the year page document, `"between": "keep"`; in `site.json`, `"again": "top"`.
 6. Pictures per scheme: a picture drawn for light that looks wrong in dark gets a `dark` file (same shape, same
-   alt; never the light file inverted), replacing any code that swaps pictures on the scheme (a `useScheme` check
+   alt; the scene at night or the drawing on a dark canvas, never the light file tinted, filtered or inverted), replacing any code that swaps pictures on the scheme (a `useScheme` check
    around two `<img>`, a `prefers-color-scheme` `<picture>`, or CSS that hides one of two pictures). In code:
    `<Image src="/a/hero.webp" dark="/a/hero-dark.webp" alt="…" />`; from data, the picture entry's `"dark"` file.
    Run `npx design-library-check-content` (the pair must share a shape within 1%).
